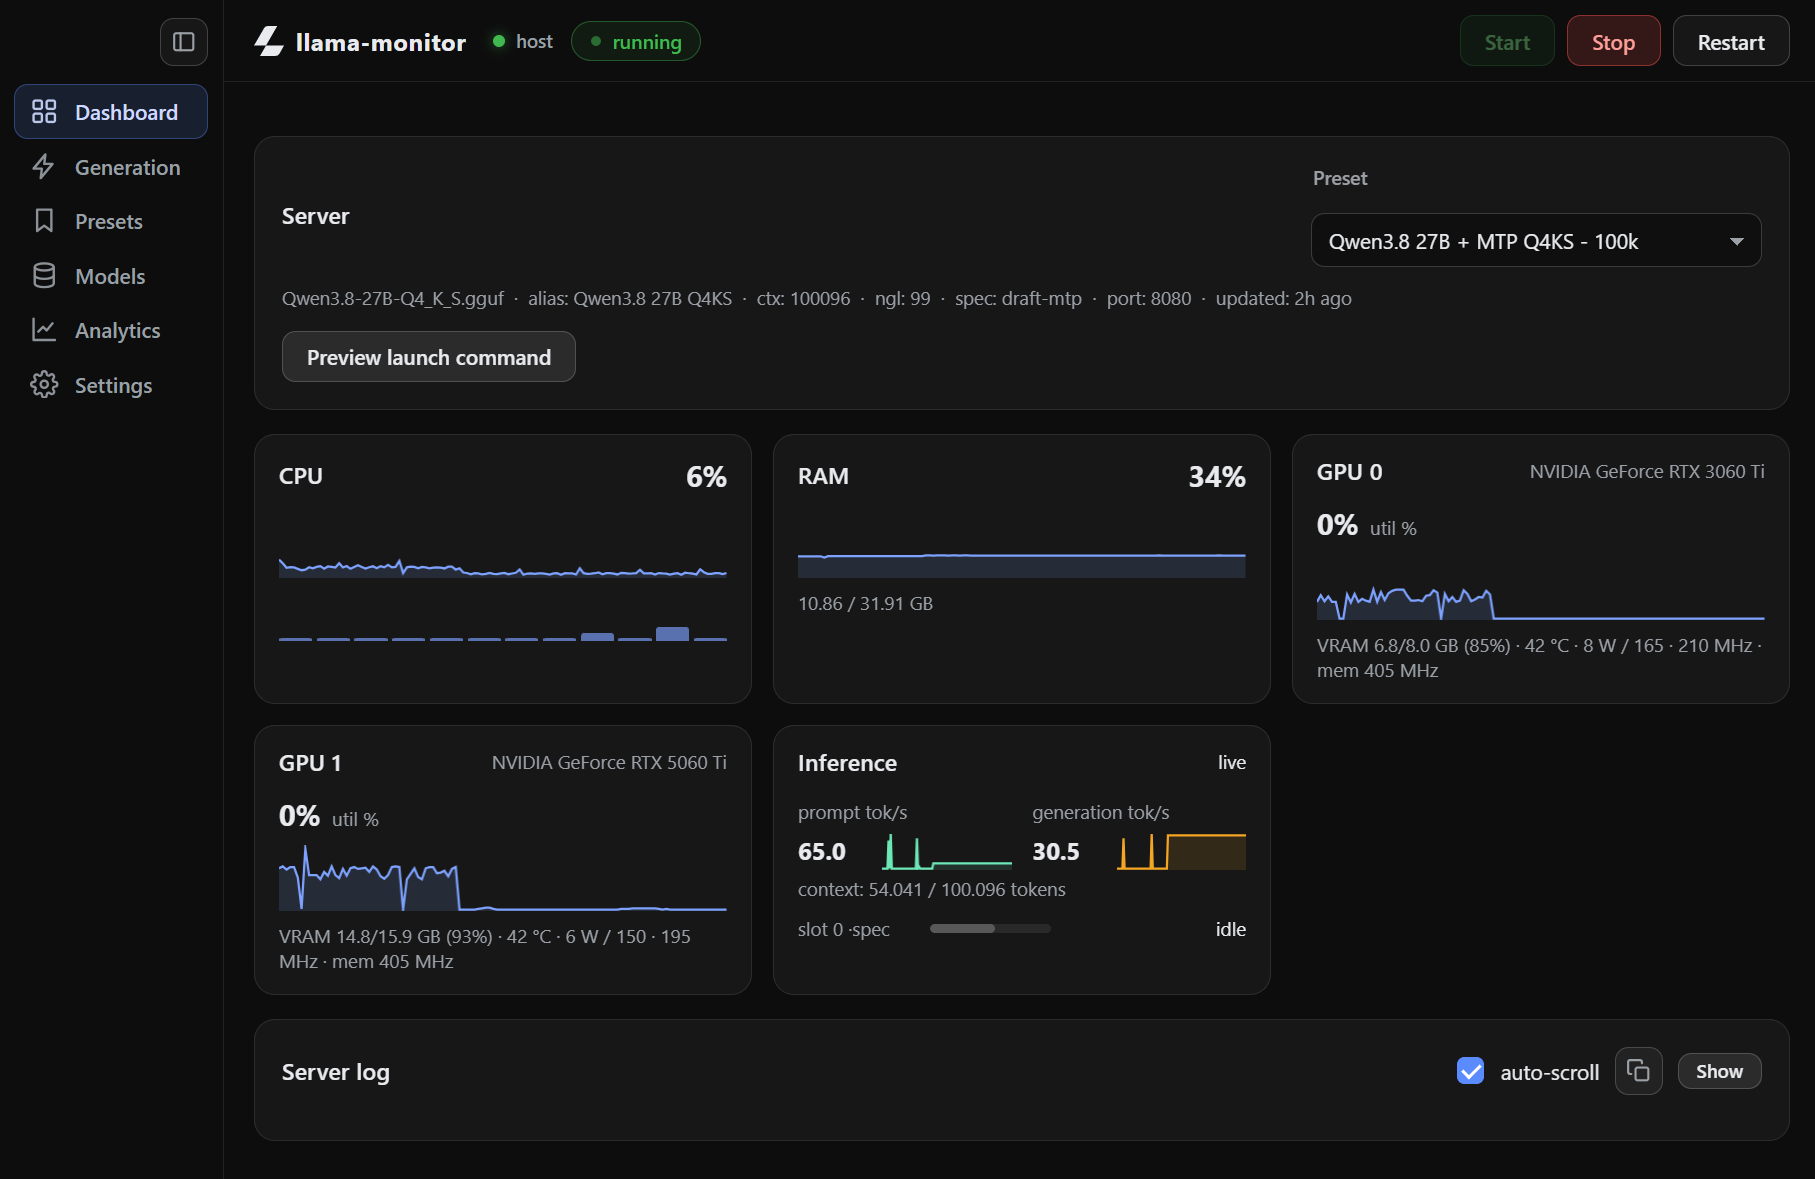
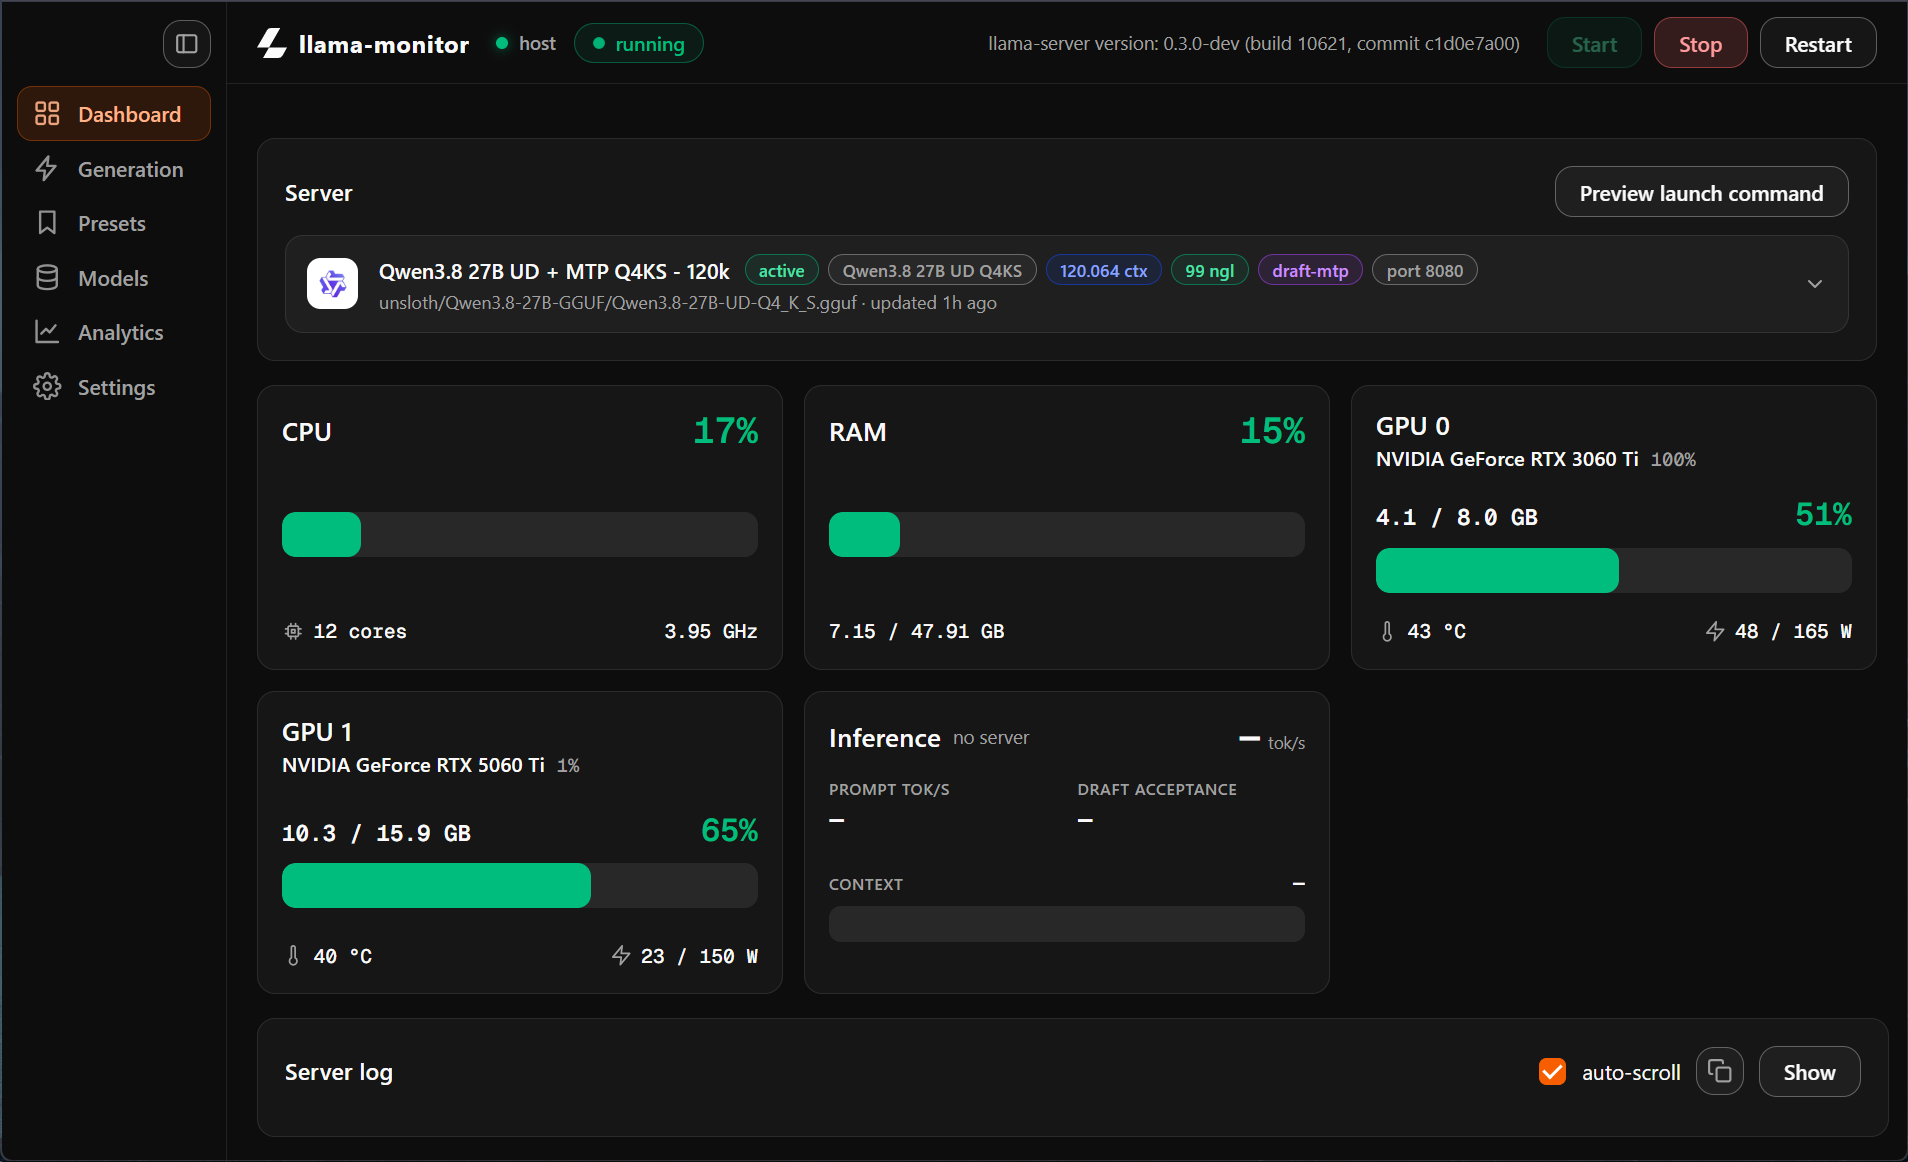
Docs: refresh README screenshots (desktop + mobile)

diff --git a/README.md b/README.md
@@ -76,7 +76,7 @@ Desktop view:
 
 Mobile view:
 
-![llama-monitor — mobile view](docs/llama-monitor-mobile.jpg)
+![llama-monitor — mobile view](docs/llama-monitor-mobile.png)
 
 ## Requirements
 
